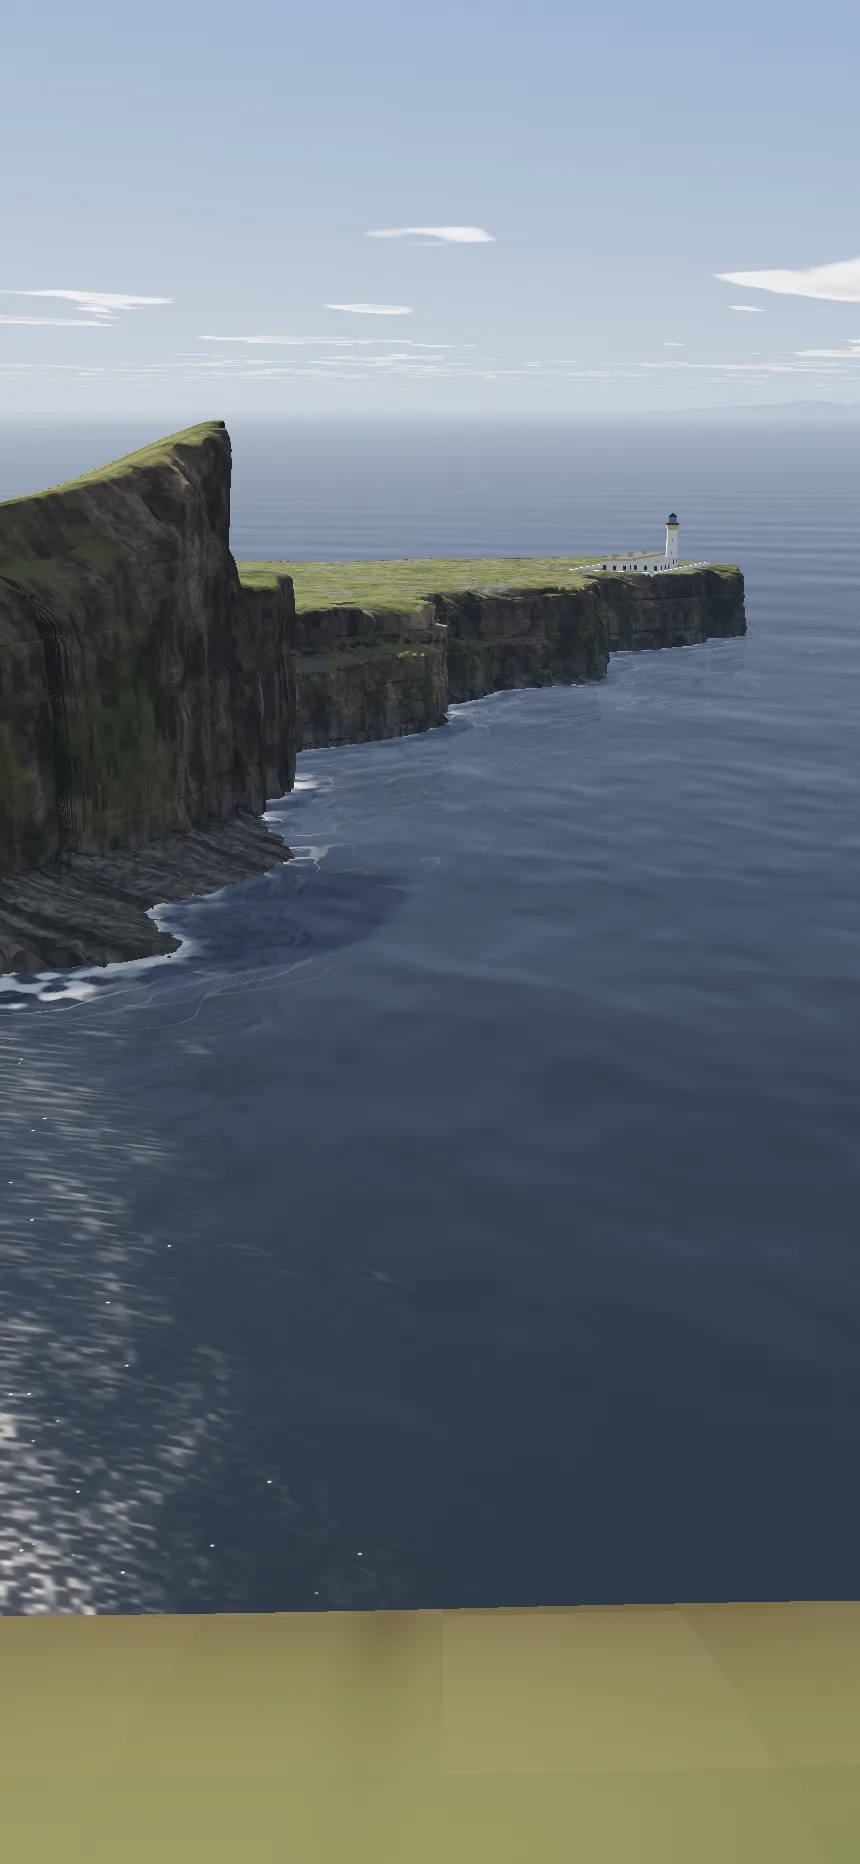
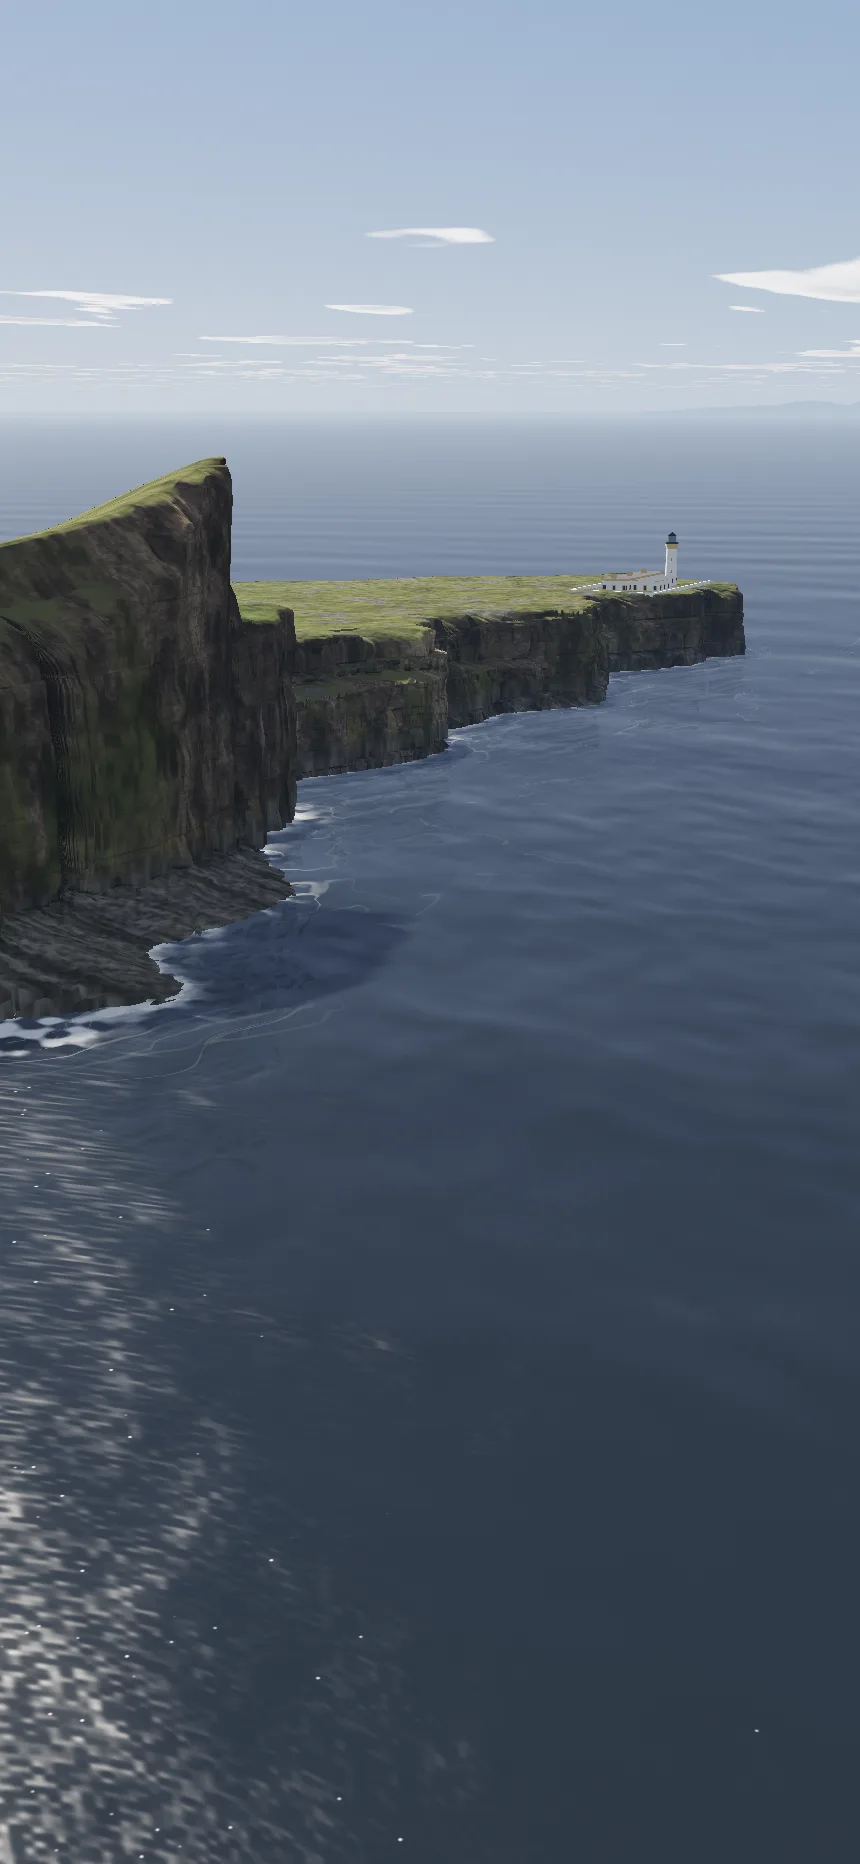
Work in progress: scene revisions against the reference photographs
Checkpoint of in-progress work.

Claude-Session: https://claude.ai/code/session_01UJNNoEiSS6JvureU37kiJq

diff --git a/concepts/scenes/dunes.js b/concepts/scenes/dunes.js
@@ -341,10 +341,12 @@ float treeD(vec3 p) {
    hold its trunk and limbs: most rays through the box miss them all */
 vec2 ballSpan(vec3 ro, vec3 rd, vec3 c, float r) {
   vec3 oc = ro - c;
-  float b = dot(oc, rd), h = b * b - dot(oc, oc) + r * r;
+  float tc = -dot(oc, rd);
+  vec3 q = oc + rd * tc;
+  float h = r * r - dot(q, q);
   if (h < 0.0) return vec2(1e9, -1e9);
   h = sqrt(h);
-  return vec2(-b - h, -b + h);
+  return vec2(tc - h, tc + h);
 }
 vec2 treeSpan(vec3 ro, vec3 rd) {
   vec2 sp = ballSpan(ro, rd, 0.5 * (cA[0].xyz + cB[0].xyz), 0.5 * length(cB[0].xyz - cA[0].xyz) + gTrunkR);
@@ -408,7 +410,11 @@ vec3 traceTrees(vec3 ro, vec3 rd, float tmax, float pix) {
       t += max(d * 0.85, t * pix * 0.4);
       if (t > span.y) break;
     }
-    if (hit && !(max(span.x, bs.x) < min(span.y, bs.y))) return vec3(t, 1.0, -2.0 - float(i));
+    if (hit && !(max(span.x, bs.x) < min(span.y, bs.y))) {
+      vec3 lp = ro + rd * t - base;
+      float inT = length(lp - 0.5 * (cA[0].xyz + cB[0].xyz)) - (0.5 * length(cB[0].xyz - cA[0].xyz) + gTrunkR);
+      return vec3(t, 1.0, -2.0 - (inT < 0.0 ? 1.0 : 0.0) - 2.0 * (bs.x > 1e8 ? 1.0 : 0.0) - 4.0 * (span.x > bs.y ? 1.0 : 0.0) - 8.0 * (span.y < bs.x ? 1.0 : 0.0));
+    }
     float cov = hit ? 1.0 : sat(0.6 - mm) / 0.6;
     if (cov > 0.0 && (hit ? t : tm) < best.x && cov >= best.y * 0.5) best = vec3(hit ? t : tm, cov, float(i));
   }
@@ -914,7 +920,7 @@ vec3 scene(vec2 fc) {
 
   /* the trees standing between the eye and what it met */
   vec3 tt = traceTrees(ro, rd, min(tEnd, 700.0), pix);
-  if (tt.z < -1.5) return vec3(4.0, 0.0, 4.0);
+  if (tt.z < -1.5) { int c = int(-tt.z - 2.0 + 0.5); return vec3((c & 1) != 0 ? 4.0 : 0.0, (c & 2) != 0 ? 4.0 : 0.0, (c & 4) != 0 ? 4.0 : ((c & 8) != 0 ? 1.0 : 0.0)); }
   if (tt.y > 0.0) {
     col = mix(col, shadeTree(ro, rd, tt.x, pix, int(tt.z)), tt.y);
     lights *= 1.0 - tt.y;

diff --git a/concepts/scenes/headland.js b/concepts/scenes/headland.js
@@ -930,6 +930,9 @@ vec3 scene(vec2 fc) {
   float s0;
   float de = mainD(eq, s0);
   ro.y = mainTop(eq, -de) - 3.0 * exp(de / 5.0) + 1.7 + uPoint.y * 0.8;
+  /* a tall frame looks steeply down: the eye stands a little higher, on
+     the rocks at the lip, so its own ground stays out of the picture */
+  ro.y += (1.0 - wide) * 7.0;
 
   float tSea = rd.y < 0.0 ? ro.y / -rd.y : 1e9;
   float tMax = min(tSea, 4000.0);
